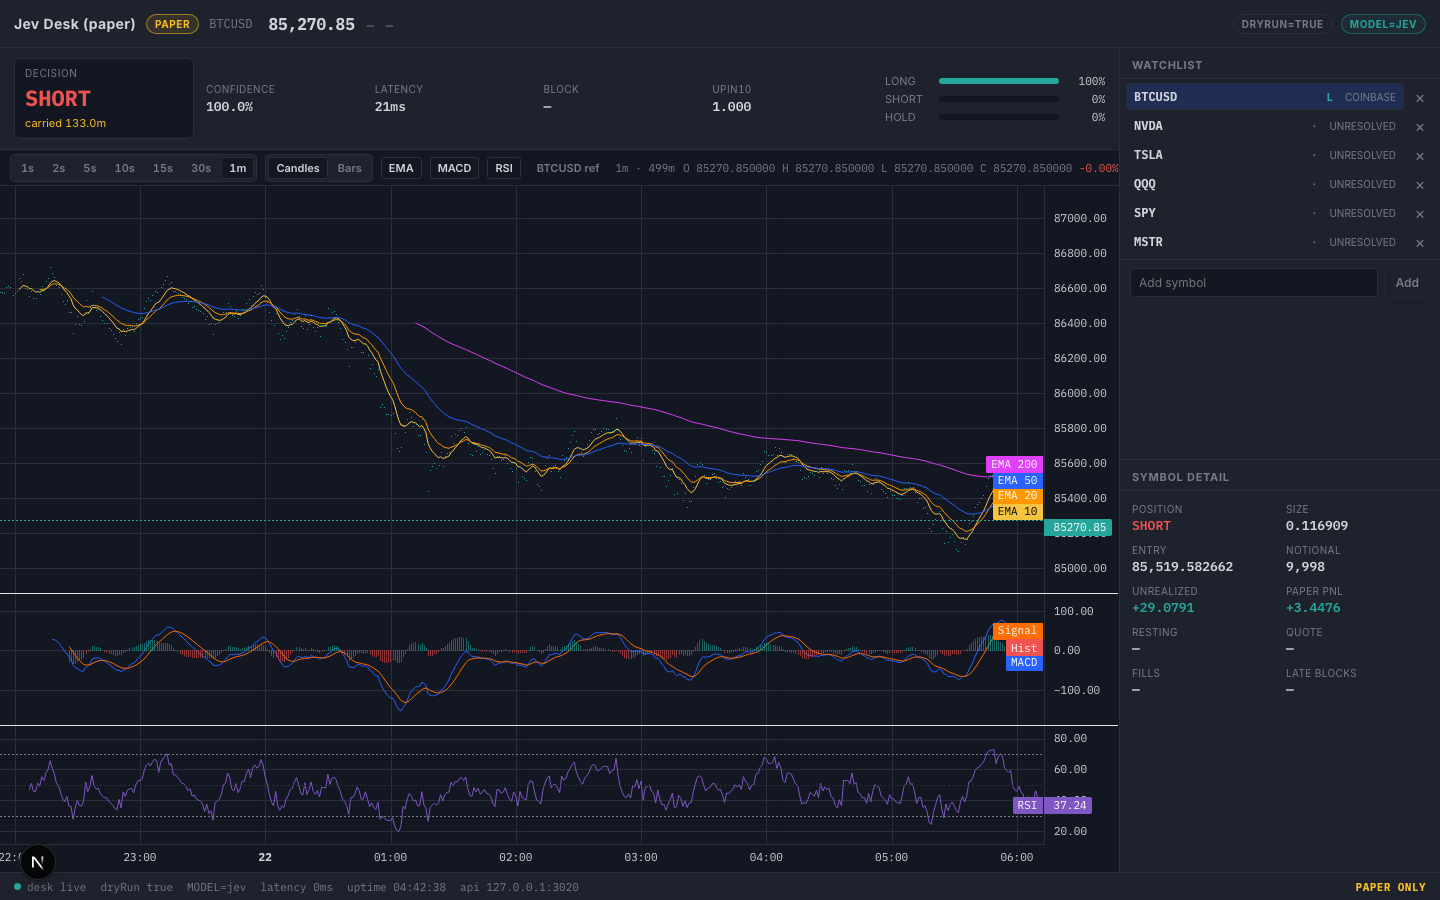
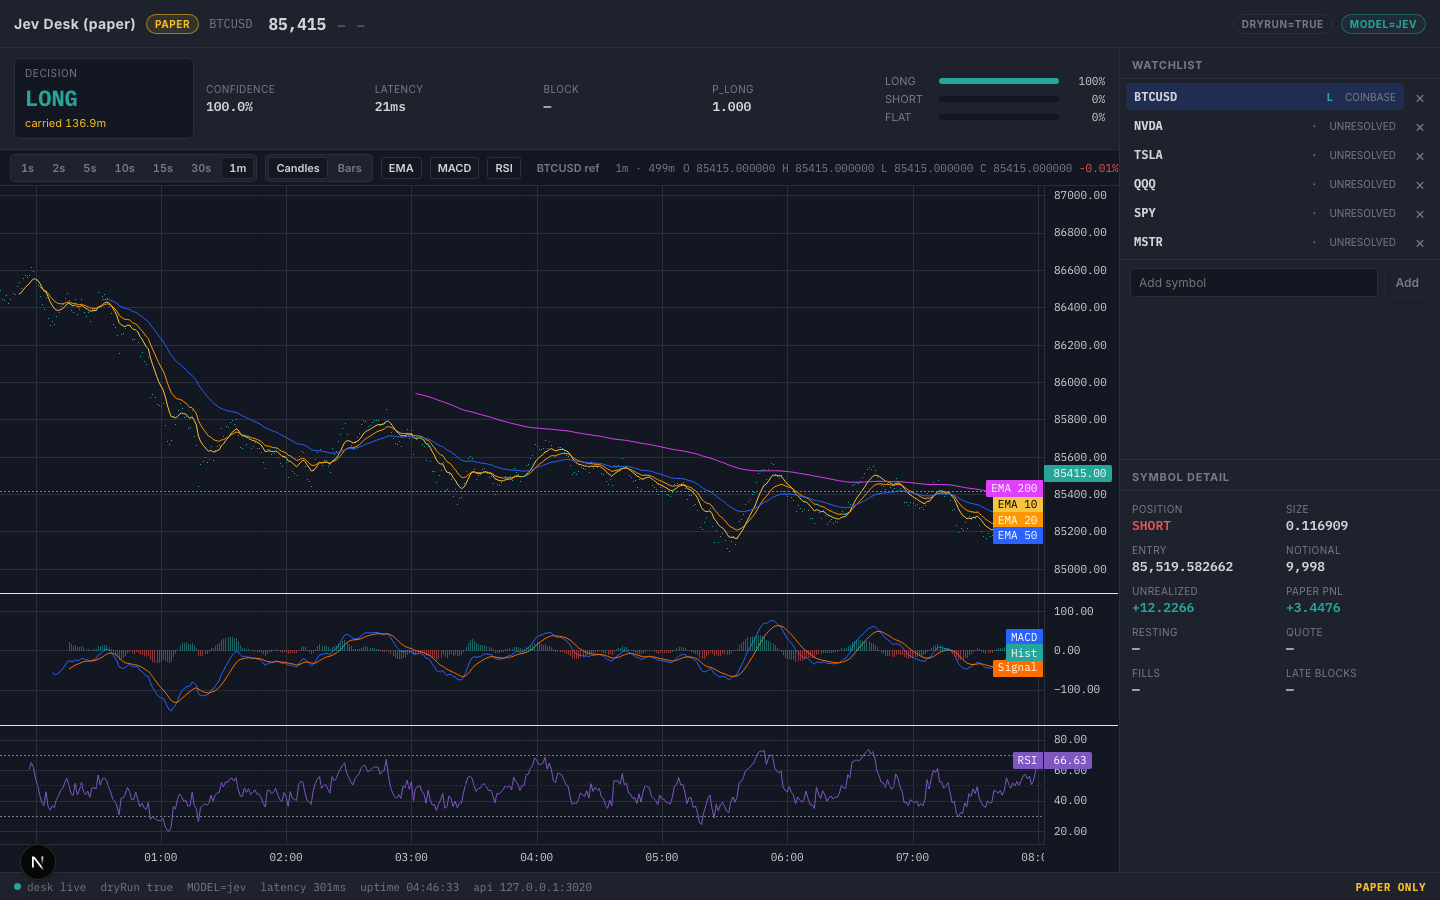
fix(desk): paint model decision strip for Jev demo
Show desk model action + p_long/p_short/p_flat + latency (not position) when desk is primary; MODEL pill from desk status; refresh phase3 shots + decision-gate prove (~328ms to call).

diff --git a/web/src/components/Desk/Desk.tsx b/web/src/components/Desk/Desk.tsx
@@ -113,42 +113,34 @@ export default function Desk({
   })();
   // Unresolved / no desk bars: quiet decision strip (no MON orphan probs).
   const deskQuiet = usingDesk && (desk.bars.length + (desk.live ? 1 : 0)) === 0;
-  const deskQty = deskPos?.qty ?? 0;
-  // Jerry "seconds" bar: owned desk position wins over stale decision / MON bleed.
+  // Jerry raise: paint model decision (action + probs + latency), not position.
+  // Position stays in SymbolDetail. Never fall back to MON when desk is primary.
   const showAction = !usingDesk
     ? view.late.text === "true" && view.carriedAction
       ? view.carriedAction
       : view.action
     : deskQuiet
       ? "—"
-      : deskQty > 0
+      : deskUi?.action === "buy"
         ? "LONG"
-        : deskQty < 0
+        : deskUi?.action === "sell"
           ? "SHORT"
-          : deskUi?.action === "buy"
-            ? "LONG"
-            : deskUi?.action === "sell"
-              ? "SHORT"
-              : deskUi
-                ? "HOLD"
-                : "—";
+          : deskUi
+            ? "FLAT"
+            : "—";
   const showTone = !usingDesk
     ? view.late.text === "true" && view.carriedAction
       ? "hold"
       : view.actionTone
     : deskQuiet
       ? "empty"
-      : deskQty > 0
+      : deskUi?.action === "buy"
         ? "long"
-        : deskQty < 0
+        : deskUi?.action === "sell"
           ? "short"
-          : deskUi?.action === "buy"
-            ? "long"
-            : deskUi?.action === "sell"
-              ? "short"
-              : deskUi
-                ? "hold"
-                : "empty";
+          : deskUi
+            ? "hold"
+            : "empty";
   const carried = usingDesk
     ? deskQuiet
       ? null
@@ -183,7 +175,7 @@ export default function Desk({
       ? [
           { name: "LONG", width: 0, label: "—", tone: "long" as const },
           { name: "SHORT", width: 0, label: "—", tone: "short" as const },
-          { name: "HOLD", width: 0, label: "—", tone: "hold" as const },
+          { name: "FLAT", width: 0, label: "—", tone: "hold" as const },
         ]
       : [
           {
@@ -199,7 +191,7 @@ export default function Desk({
             tone: "short" as const,
           },
           {
-            name: "HOLD",
+            name: "FLAT",
             width: Math.round(deskDec.p_flat * 100),
             label: `${(deskDec.p_flat * 100).toFixed(0)}%`,
             tone: "hold" as const,
@@ -228,6 +220,17 @@ export default function Desk({
     if (!res.ok) setFormErr(res.error);
   }
 
+  const deskModelRaw = (desk.status?.modelName || desk.status?.model || "mock").trim();
+  const deskModelShort = /jev/i.test(deskModelRaw)
+    ? deskModelRaw.toLowerCase().includes("jev") && !deskModelRaw.toLowerCase().startsWith("mock")
+      ? deskModelRaw.replace(/^typesafe-ai\//i, "").slice(0, 24)
+      : "jev"
+    : deskModelRaw.toLowerCase().startsWith("mock") || deskModelRaw === ""
+      ? "mock"
+      : deskModelRaw.slice(0, 24);
+  const modelPill = usingDesk ? `MODEL=${deskModelShort}` : view.modelPill;
+  const modelIsJev = usingDesk ? /jev/i.test(deskModelRaw) && !/^mock$/i.test(deskModelRaw) : view.modelIsJev;
+
   return (
     <div className={styles.shell}>
       <header className={styles.topBar}>
@@ -243,7 +246,7 @@ export default function Desk({
         </div>
         <div className={styles.topPills}>
           <span className={styles.pill}>{view.dryRunPill}</span>
-          <span className={view.modelIsJev ? styles.pillJev : styles.pill}>{view.modelPill}</span>
+          <span className={modelIsJev ? styles.pillJev : styles.pill}>{modelPill}</span>
         </div>
       </header>
 
@@ -269,7 +272,7 @@ export default function Desk({
                 <span className={styles.val}>{stripBlock}</span>
               </div>
               <div>
-                <span className={styles.lbl}>upIn10</span>
+                <span className={styles.lbl}>{usingDesk ? "p_long" : "upIn10"}</span>
                 <span className={styles.val}>{stripUpIn10}</span>
               </div>
             </div>
@@ -422,7 +425,7 @@ export default function Desk({
           desk {desk.connection}
         </span>
         <span className={styles.statusItem}>dryRun {paper ? "true" : "false"}</span>
-        <span className={styles.statusItem}>{view.modelPill}</span>
+        <span className={styles.statusItem}>{modelPill}</span>
         <span className={styles.statusItem}>latency {view.latency}</span>
         <span className={styles.statusItem}>uptime {uptime}</span>
         <span className={styles.statusItem}>api {deskUrl.replace(/^https?:\/\//, "")}</span>
